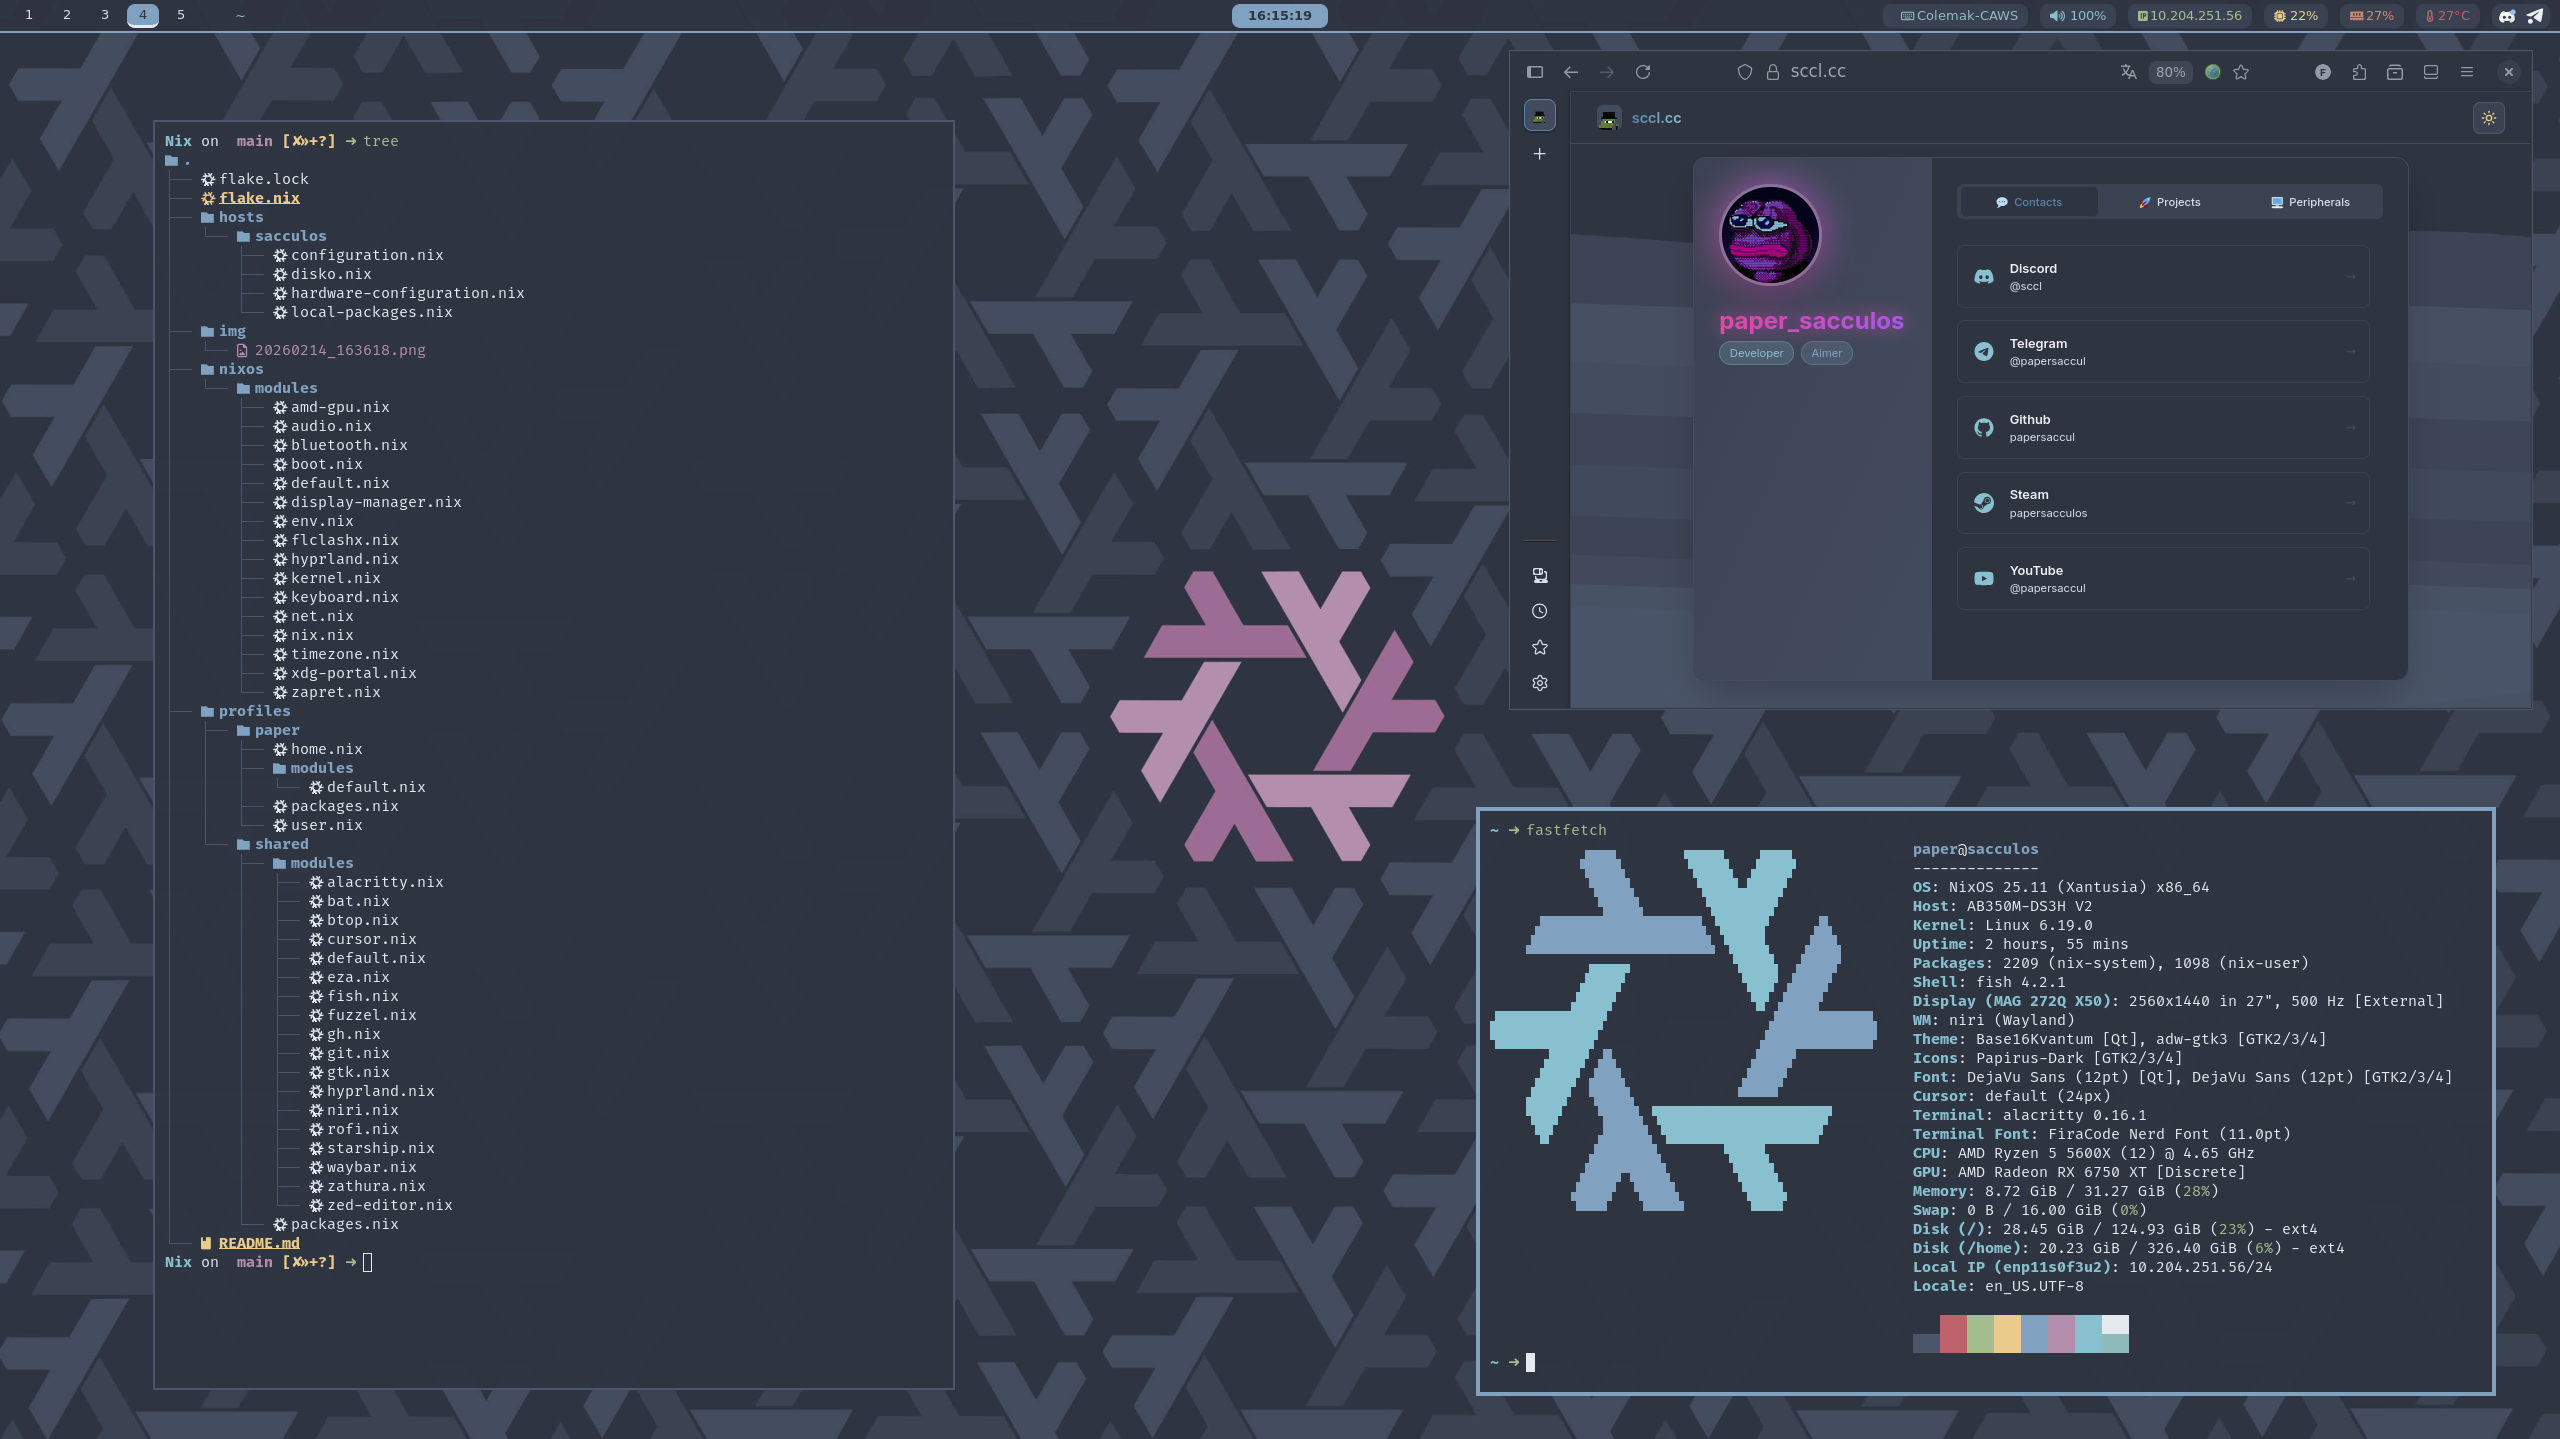
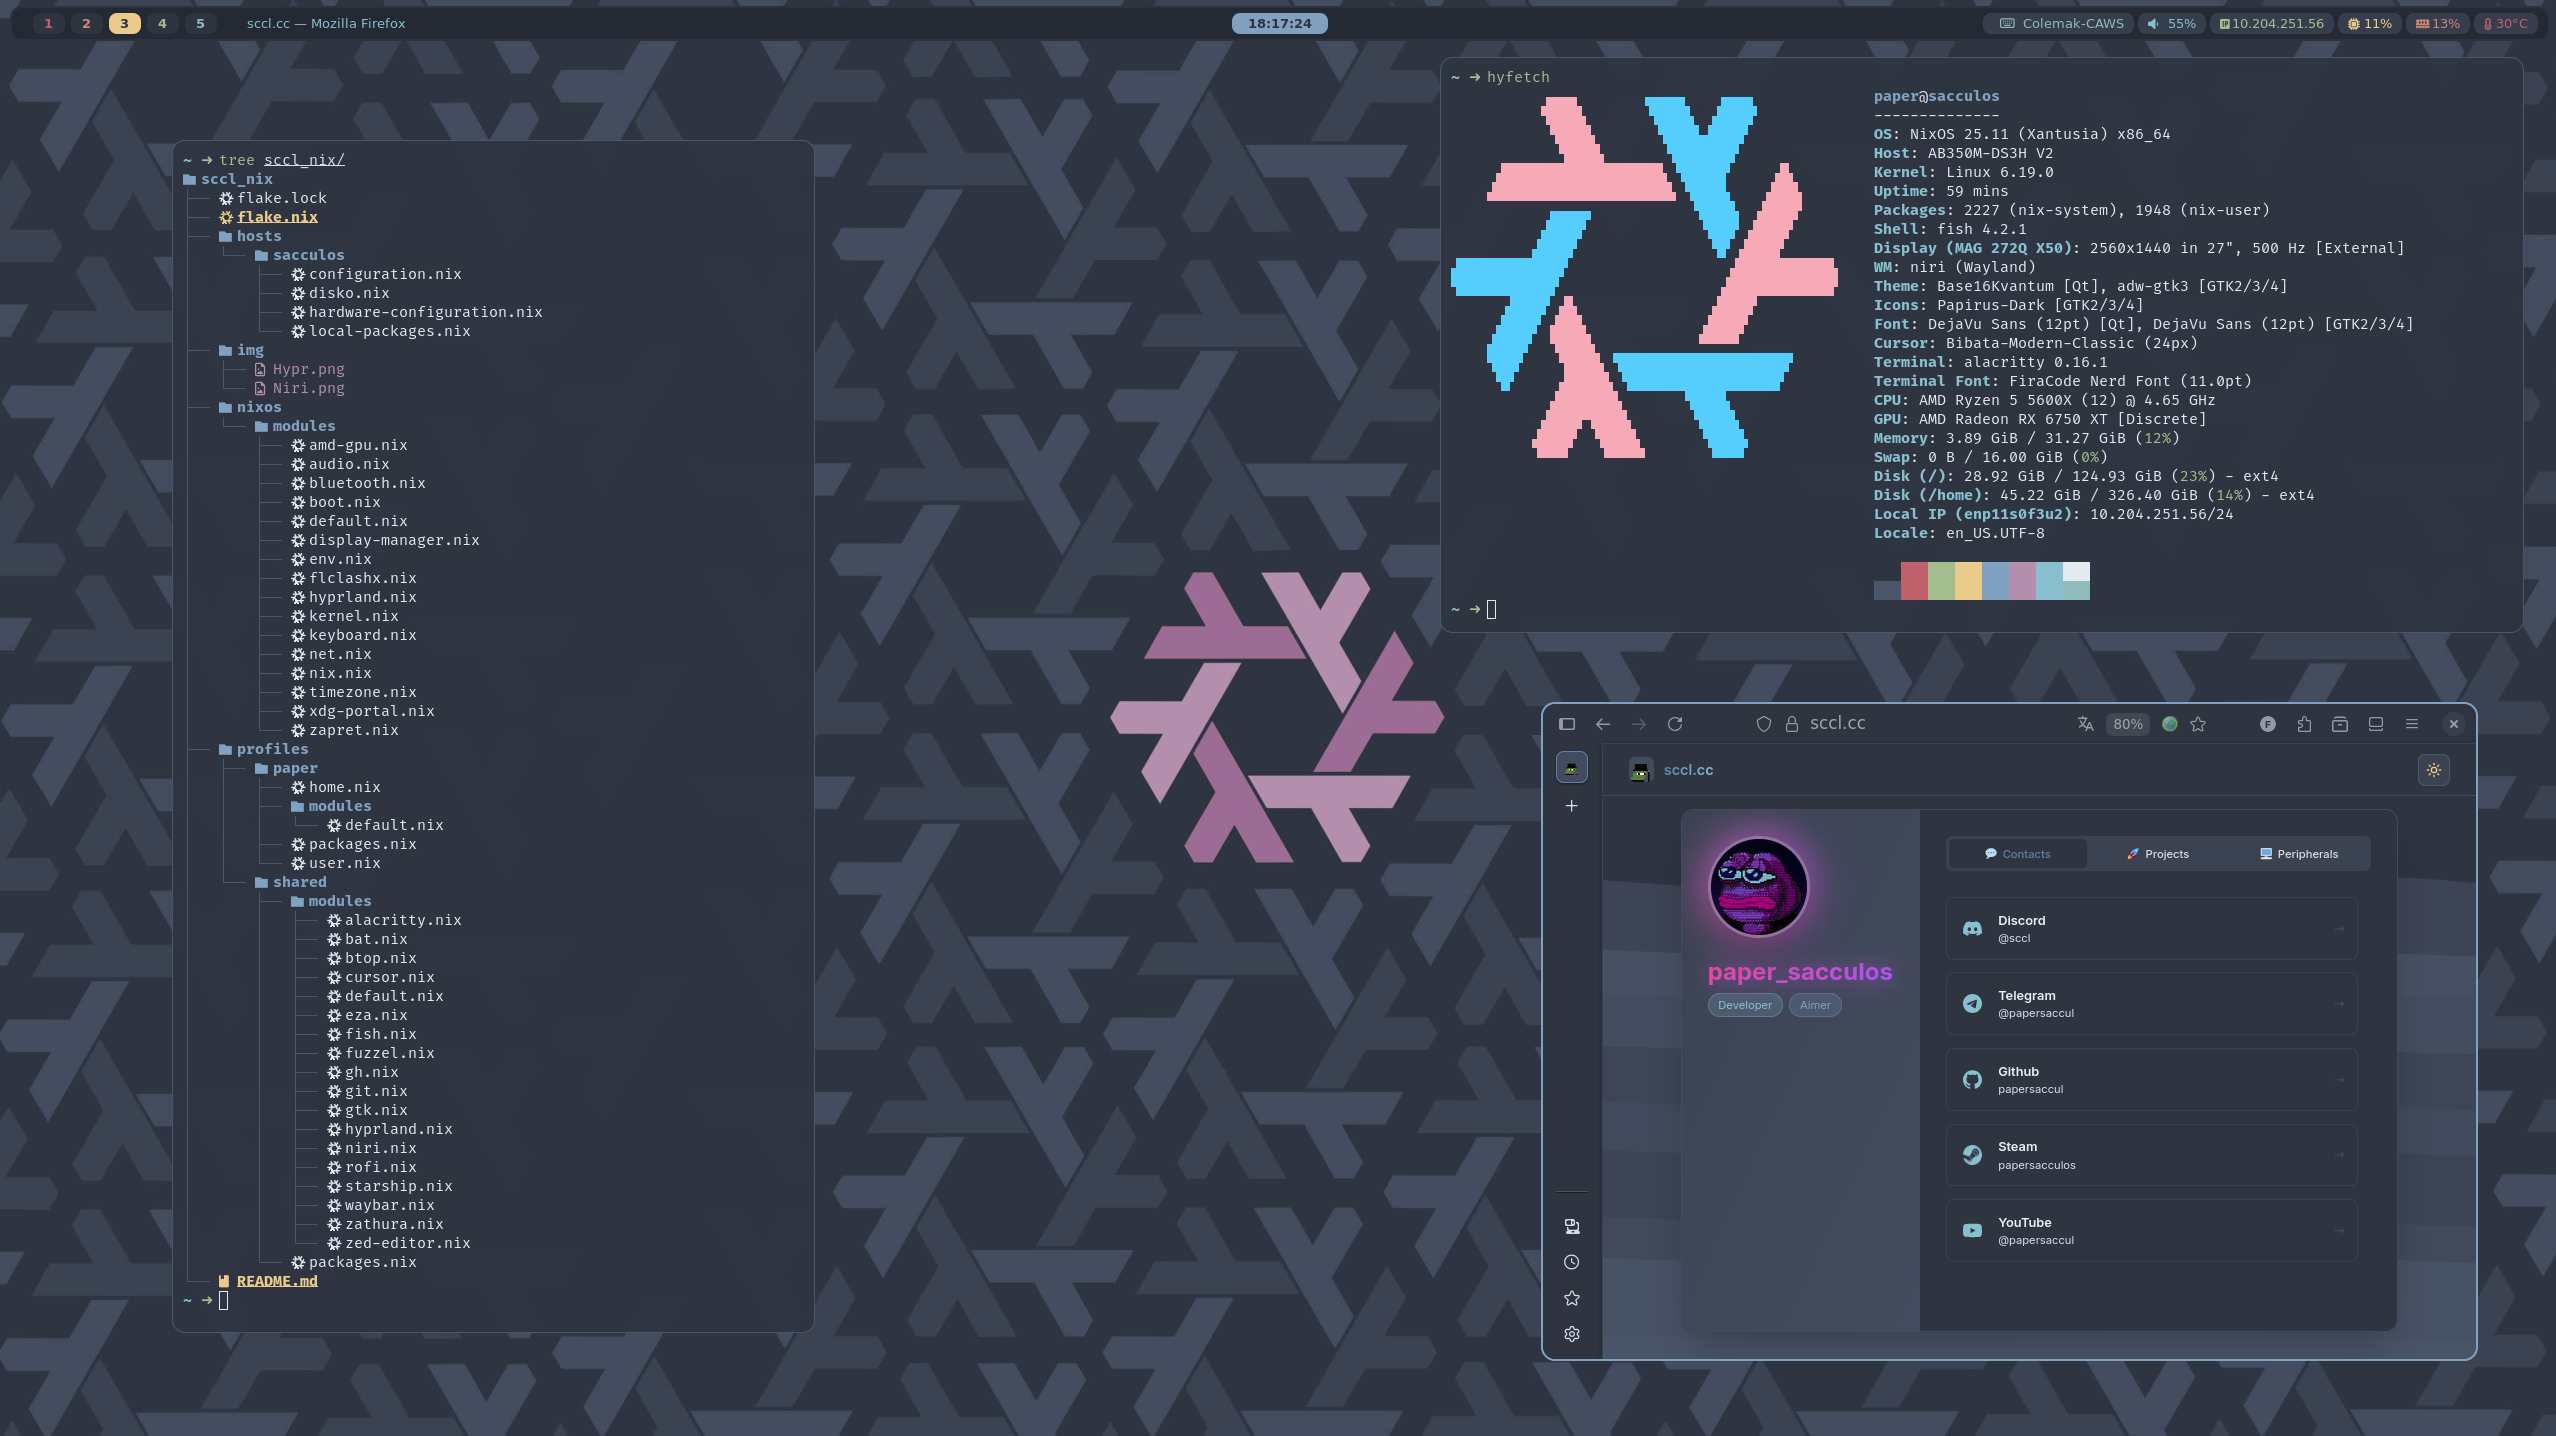
waybar: bttr style~

diff --git a/README.md b/README.md
@@ -28,7 +28,7 @@
 - **Fonts:** JetBrains Mono, Noto, Font Awesome, Nerd Fonts
 
 **System packages** -> `hosts/sacculos/*` (all users on this host):
-- **Utils:** vim, wget, curl, git, htop, tree, nano, fastfetch
+- **Utils:** vim, wget, curl, git, htop, tree, nano, fastfetch, hyfetch (iykyk :D)
 - **Archive:** p7zip, unzip, zip
 - **Network:** networkmanagerapplet, webcord
 - **Services:** zapret-discord-youtube (DPI bypass)
